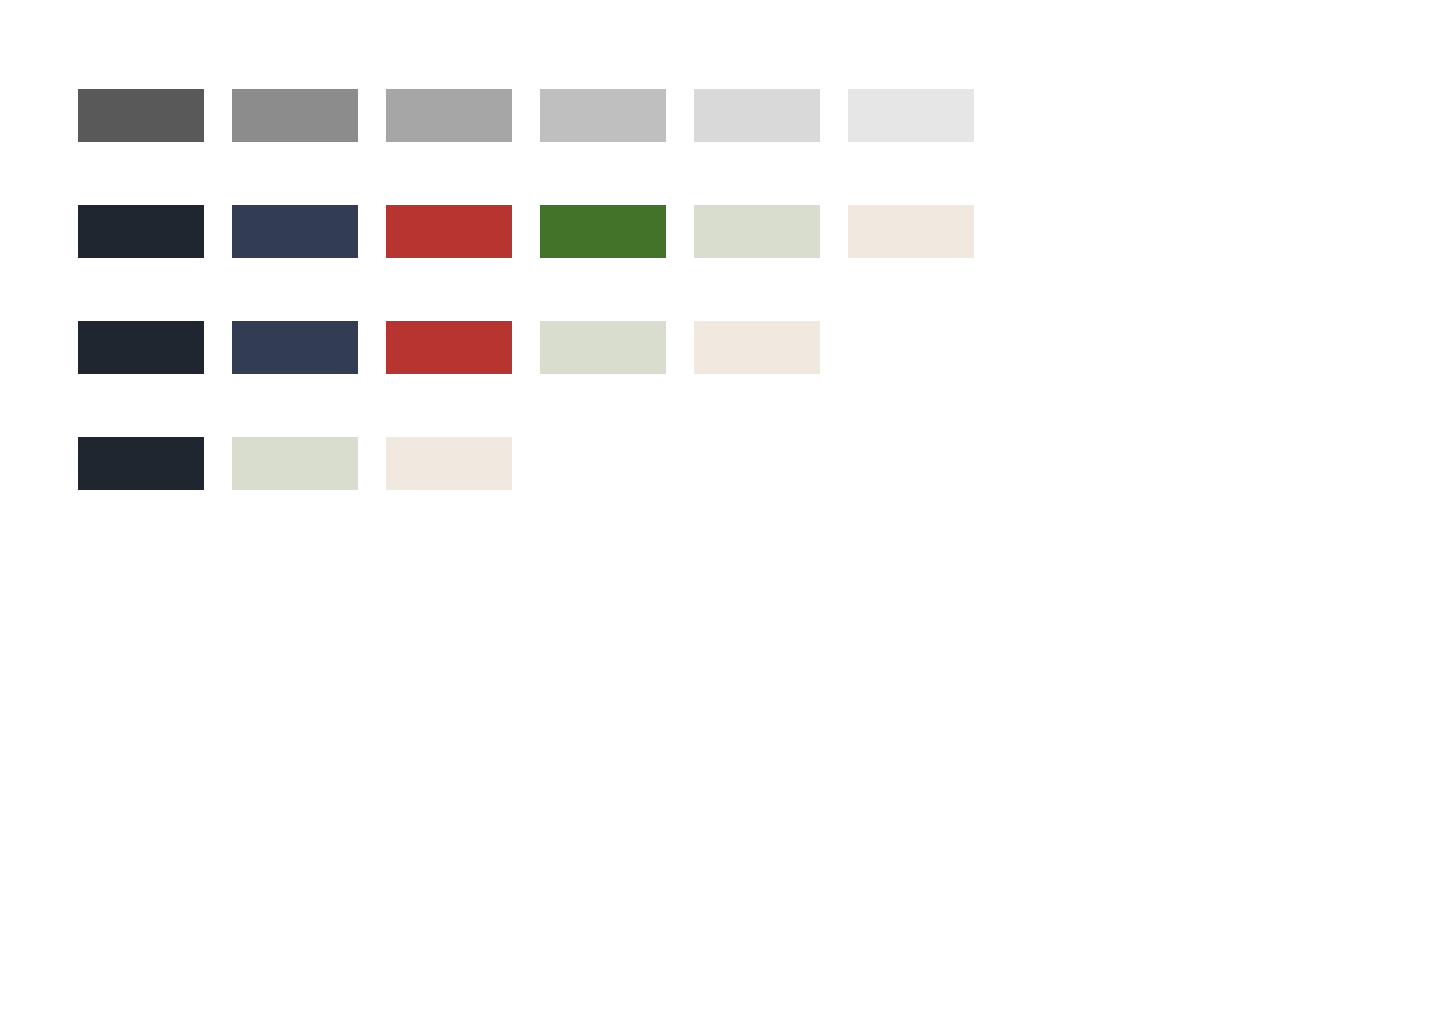
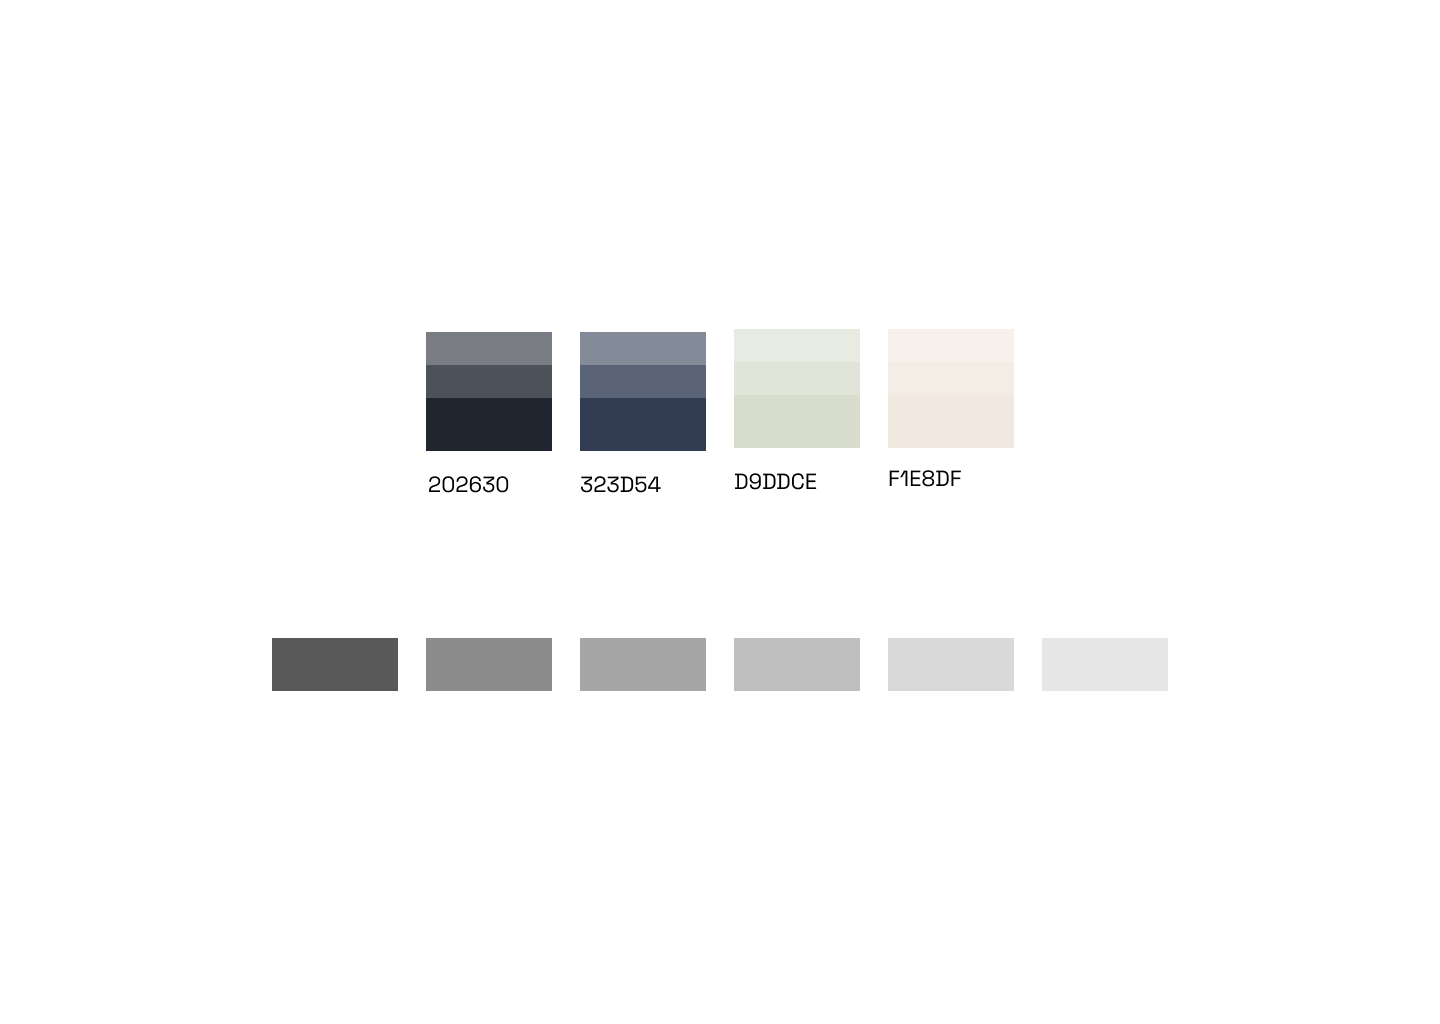
added new case study and deleted blog post

diff --git a/docs/work/starfish-systems/index.html b/docs/work/starfish-systems/index.html
@@ -1,0 +1,106 @@
+<!DOCTYPE html>
+<html lang="en">
+<head>
+
+	<meta name="twitter:card" content="summary_large_image" />
+	<meta name="twitter:site" content="@josephc_100" />
+	<meta name="twitter:title" content="starfish.systems - a tiny design studio" />
+	<meta name="twitter:description" content="Joseph C Studio" />
+	<meta name="twitter:image" content="https://josephc.net/images/fantome.jpg" />
+
+
+	<link rel="apple-touch-icon" sizes="180x180" href="/images/favicons/apple-touch-icon.png">
+	<link rel="icon" type="image/png" sizes="32x32" href="/images/favicons/favicon-32x32.png">
+	<link rel="icon" type="image/png" sizes="16x16" href="/images/favicons/favicon-16x16.png">
+
+
+	<meta charset="UTF-8" />
+	<meta name="viewport" content="width=device-width, initial-scale=1.0" />
+
+	<title>starfish.systems - a tiny design studio | Joseph C</title>
+
+	<link rel="stylesheet" href="/css/style.css" type="text/css" media="all" />
+
+
+	</head>
+
+<body>
+
+<header class="site-header">
+  <nav class="site-nav">
+    <a class="logo" href="https://joseph-c100.github.io">
+      Joseph C
+      
+    </a>
+    
+    <ul class="main-menu">
+      
+      <li>
+        <a href="/writing">Writing</a>
+      </li>
+      
+      <li>
+        <a href="/info">Info</a>
+      </li>
+      
+    </ul>
+  </nav>
+</header>
+
+
+<main class="content">
+
+
+<h2>starfish.systems - a tiny design studio</h2>
+
+<h3 id="case-study-project">Case Study Project</h3>
+<p>A tiny, experimental design studio activated by Joseph. starfish.systems is designed to run in digital spaces utilising a variety of tech and design stacks.</p>
+<h4 id="mood-board-and-colour-palette">Mood board and colour palette</h4>
+<p>First step was to put together a moodboard which I had already partly accumulated on are.na.
+I was looking for retro, low poly shapes mixed with high tech ‘clean’ sci-fi tech. Based on some images I found I started building my colour palette.</p>
+<p><img src="/images/moodboard.png" alt="image">
+<img src="/images/colour-pallet.png" alt="image"></p>
+<p>The beige and green worked well together - they had a mossy/sandy tone taken from the &rsquo;e-ink display&rsquo; screen images from the moodboard and the video game beach scene.</p>
+<h4 id="illustrations">Illustrations</h4>
+<p>I used an AI image generation plugin in Figma for the first time to create illustrations. Incredible how quickly this field of image generation has developed in the last year and messing around with it here got me excited about how it could be used for creating new looks, styles and inspiration in future projects.</p>
+<p>Some prompts I used were &lsquo;sci-fi landscape&rsquo; &lsquo;black and white&rsquo; &lsquo;desert&rsquo; &rsquo;low detail&rsquo; &lsquo;simple&rsquo;</p>
+<p><img src="/images/illustrations-1.png" alt="image">
+<img src="/images/illustrations-2.png" alt="image"></p>
+<h4 id="typography">Typography</h4>
+<p>Syne Mono was chosen for it’s low-poly retro, sci-fi style. It’s mixture of sharp and rounded corners made it easy on the eyes and worked well in larger sizes for headers.</p>
+<p>Space Grotesk worked great as a body typeface, it was clean, sans-serif typeface that contrased well with Syne Mono and was highly readable in small sizes.</p>
+<p><img src="/images/type1.png" alt="image">
+<img src="/images/type2.png" alt="image">
+<img src="/images/type3.png" alt="image">
+<img src="/images/type4.png" alt="image">
+<img src="/images/type5.png" alt="image"></p>
+<h4 id="logo-and-wordmark">Logo and wordmark</h4>
+<p>Next was the logo/symbol and word mark. Inspired by retro video games, I wanted a ’low-poly’ shape that looked good solo or with text. After experimenting a bit with different forms I found this pentagon - I thought it looked like a rock or a diamond when turned on it’s side. It also looked like a glitch or fracture, a break in your computer screen - which I liked as the idea of connecting organic matter and tech was a theme I wanted to explore. It also acted as an arrow pointing to the word mark, and could be dynamic component - stretching across the word mark to create a background.</p>
+<p><img src="/images/logo-0.png" alt="image">
+<img src="/images/logo-1.png" alt="image">
+<img src="/images/logo-2.png" alt="image"></p>
+<h4 id="wireframes-and-building-the-site">Wireframes and building the site</h4>
+<p>A couple quick wireframes before building a mockup of the site. The site is very quick to load without any complex animations or javascript and only two pages (home and services). At the bottom is an email contact form for potential clients.</p>
+<p><img src="/images/wireframe.png" alt="image">
+<img src="/images/wireframe1.png" alt="image"></p>
+<p><img src="/images/desktop1.png" alt="image">
+<img src="/images/desktop2.png" alt="image"></p>
+<p><img src="/images/phone1.png" alt="image">
+<img src="/images/phone2.png" alt="image"></p>
+<h4 id="final-mockups">Final mockups</h4>
+<p><img src="/images/cards-mockup.png" alt="image">
+<img src="/images/phone-mockup.png" alt="image">
+<img src="/images/desktop-mockup.png" alt="image"></p>
+
+
+<html>
+	<body>
+		<div class = "footer-section">
+		<footer>
+			<p>&copy;2022 Joseph C</p>
+			<p>Designed and built by Joseph C using Hugo</p>
+		</footer>
+		</div>
+	</body>
+</html>
+

diff --git a/docs/index.html b/docs/index.html
@@ -133,6 +133,9 @@
       <a href = "https://www.annieboothroyd.com">Portfolio website of Annie Joy Boothroyd</a><span> Web Dev<span>
     </div>
     <div class='work-item'>
+      <a href = "/work/starfish-systems">starfish.systems - design studio</a><span> Case Study<span>
+    </div>
+    <div class='work-item'>
       <a href = "https://www.bookmachine.org/agency">BookMachine Creative Agency - Rebrand</a><span> Wireframing and Web Dev<span>
     </div>
     <div class='work-item'>

diff --git a/docs/writing/index.html b/docs/writing/index.html
@@ -60,15 +60,6 @@
 
 <article class="post-snippet">
   <h3>
-    <a href="/writing/moodboard/">Entry #1 - Moodboard and colour palettes</a>
-  </h3>
-	<time datetime="2022-11-18T16:43:00&#43;07:00">
-		November 18, 2022
-	</time>
-</article>
-
-<article class="post-snippet">
-  <h3>
     <a href="/writing/starfish-systems-manifesto/">Late night manifesto for starfish.systems</a>
   </h3>
 	<time datetime="2022-11-05T13:11:00&#43;07:00">

diff --git a/docs/work/index.html b/docs/work/index.html
@@ -175,6 +175,15 @@
 	</time>
 </article>
 
+<article class="post-snippet">
+  <h3>
+    <a href="/work/starfish-systems/">starfish.systems - a tiny design studio</a>
+  </h3>
+	<time datetime="0001-01-01T00:00:00Z">
+		January 1, 0001
+	</time>
+</article>
+
 
 <html>
 	<body>

diff --git a/content/work/starfish-systems.md b/content/work/starfish-systems.md
@@ -1,0 +1,73 @@
+---
+title: "starfish.systems - a tiny design studio"
+---
+### Case Study Project
+
+A tiny, experimental design studio activated by Joseph. starfish.systems is designed to run in digital spaces utilising a variety of tech and design stacks.
+
+#### Mood board and colour palette
+
+First step was to put together a moodboard which I had already partly accumulated on are.na.
+I was looking for retro, low poly shapes mixed with high tech ‘clean’ sci-fi tech. Based on some images I found I started building my colour palette.
+
+![image](/images/moodboard.png)
+![image](/images/colour-pallet.png)
+
+The beige and green worked well together - they had a mossy/sandy tone taken from the 'e-ink display' screen images from the moodboard and the video game beach scene. 
+
+#### Illustrations
+
+I used an AI image generation plugin in Figma for the first time to create illustrations. Incredible how quickly this field of image generation has developed in the last year and messing around with it here got me excited about how it could be used for creating new looks, styles and inspiration in future projects.
+
+Some prompts I used were 'sci-fi landscape' 'black and white' 'desert' 'low detail' 'simple'
+
+![image](/images/illustrations-1.png)
+![image](/images/illustrations-2.png)
+
+#### Typography
+
+Syne Mono was chosen for it’s low-poly retro, sci-fi style. It’s mixture of sharp and rounded corners made it easy on the eyes and worked well in larger sizes for headers. 
+
+Space Grotesk worked great as a body typeface, it was clean, sans-serif typeface that contrased well with Syne Mono and was highly readable in small sizes.
+
+![image](/images/type1.png)
+![image](/images/type2.png)
+![image](/images/type3.png)
+![image](/images/type4.png)
+![image](/images/type5.png)
+
+
+#### Logo and wordmark
+
+Next was the logo/symbol and word mark. Inspired by retro video games, I wanted a ’low-poly’ shape that looked good solo or with text. After experimenting a bit with different forms I found this pentagon - I thought it looked like a rock or a diamond when turned on it’s side. It also looked like a glitch or fracture, a break in your computer screen - which I liked as the idea of connecting organic matter and tech was a theme I wanted to explore. It also acted as an arrow pointing to the word mark, and could be dynamic component - stretching across the word mark to create a background.
+
+![image](/images/logo-0.png)
+![image](/images/logo-1.png)
+![image](/images/logo-2.png)
+
+#### Wireframes and building the site
+
+A couple quick wireframes before building a mockup of the site. The site is very quick to load without any complex animations or javascript and only two pages (home and services). At the bottom is an email contact form for potential clients. 
+
+![image](/images/wireframe.png)
+![image](/images/wireframe1.png)
+
+![image](/images/desktop1.png)
+![image](/images/desktop2.png)
+
+![image](/images/phone1.png)
+![image](/images/phone2.png)
+
+
+#### Final mockups
+
+![image](/images/cards-mockup.png)
+![image](/images/phone-mockup.png)
+![image](/images/desktop-mockup.png)
+
+
+
+
+
+
+
